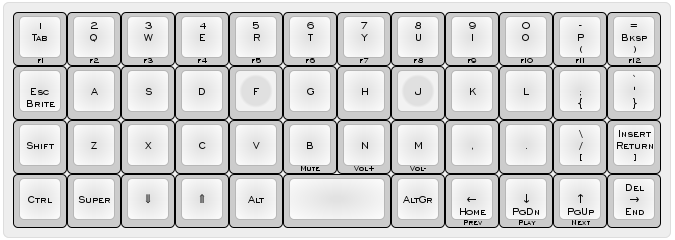
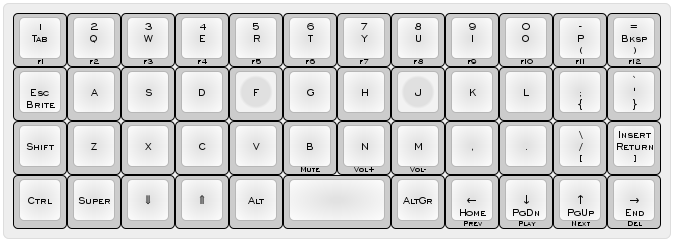
- Moved Insert/Del in Esc layer

diff --git a/keyboards/planck/keymaps/dbroqua/keymap.c b/keyboards/planck/keymaps/dbroqua/keymap.c
@@ -83,16 +83,16 @@ const uint16_t PROGMEM keymaps[][MATRIX_ROWS][MATRIX_COLS] = {
  * |------+------+------+------+------+------+------+------+------+------+------+------|
  * |      |      |      |      |      |      |      |      |      |      |      |  `   |
  * |------+------+------+------+------+------+------+------+------+------+------+------|
- * |      |      |      |      |      |      |      |      |      |      |   \  |Insert|
+ * |      |      |      |      |      |      |      |      |      |      |   \  |      |
  * |------+------+------+------+------+------+------+------+------+------+------+------|
- * |      |      |      |      |      |             |      |      |      |      | Del  |
+ * |      |      |      |      |      |             |      |      |      |      |      |
  * `-----------------------------------------------------------------------------------'
  */
 [_RAISE] = {
   {KC_1,    KC_2,    KC_3,    KC_4,    KC_5,    KC_6,    KC_7,    KC_8,    KC_9,    KC_0,    KC_MINS, KC_EQL},
   {_______, _______, _______, _______, _______, _______, _______, _______, _______, _______, _______, KC_GRV},
-  {_______, _______, _______, _______, _______, _______, _______, _______, _______, _______, KC_BSLS, KC_INS},
-  {_______, _______, _______, _______, _______, _______, _______, _______, _______, _______, _______, KC_DEL}
+  {_______, _______, _______, _______, _______, _______, _______, _______, _______, _______, KC_BSLS, _______},
+  {_______, _______, _______, _______, _______, _______, _______, _______, _______, _______, _______, _______}
 },
 
 /* Esc
@@ -101,9 +101,9 @@ const uint16_t PROGMEM keymaps[][MATRIX_ROWS][MATRIX_COLS] = {
  * |------+------+------+------+------+------+------+------+------+------+------+------|
  * |      |      |      |      |      |      |      |      |      |      |      |      |
  * |------+------+------+------+------+------+------+------+------+------+------+------|
- * |      |      |      |      |      | Mute | Vol+ | Vol- |      |      |      |      |
+ * |      |      |      |      |      | Mute | Vol+ | Vol- |      |      |      |Insert|
  * |------+------+------+------+------+------+------+------+------+------+------+------|
- * |      |      |      |      |      |             |      | Prev | Play | Next |      |
+ * |      |      |      |      |      |             |      | Prev | Play | Next |  Del |
  * `-----------------------------------------------------------------------------------'
  */
 [_ESC] = {
